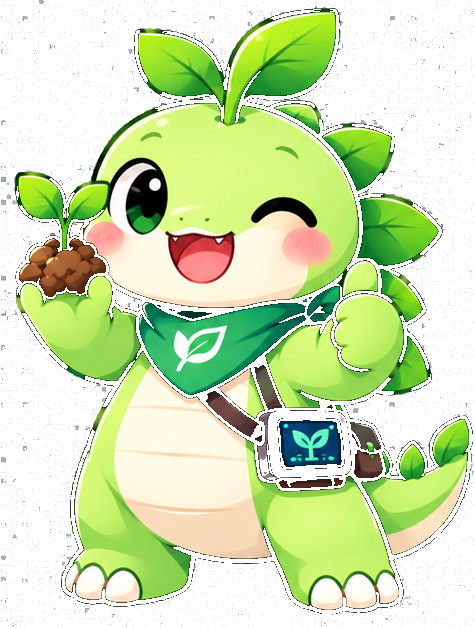
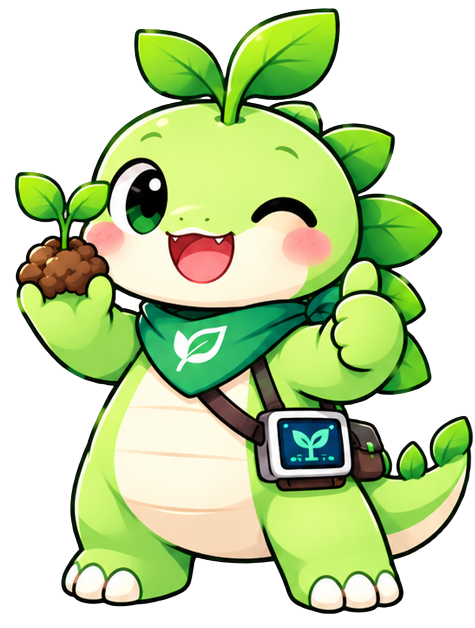
Add files via upload

diff --git a/src/components/LoginView.jsx b/src/components/LoginView.jsx
@@ -107,8 +107,8 @@ export default function LoginView({ onSwitchToRegister, onSwitchToForgotPassword
             <div className="mt-6 flex flex-col items-center justify-center p-3 rounded-2xl bg-white/10 border border-white/15 backdrop-blur-xs shadow-inner">
               <DinoMascot
                 pose="login"
-                src="/mascot/dino-mascot1.png"
-                size={135}
+                src="/Dino-mascot1.png"
+                size={140}
                 bubbleText="ยินดีต้อนรับครับ! เข้าสู่ระบบเพื่อจัดการวันลาได้เลย"
               />
             </div>

diff --git a/src/components/DinoMascot.jsx b/src/components/DinoMascot.jsx
@@ -29,7 +29,7 @@ export default function DinoMascot({
     switch (pose) {
       case 'login':
       case 'mascot1':
-        return '/mascot/dino-mascot1.png';
+        return '/Dino-mascot1.png';
 
       case 'mascot2':
         return '/mascot/dino-mascot2.png';
